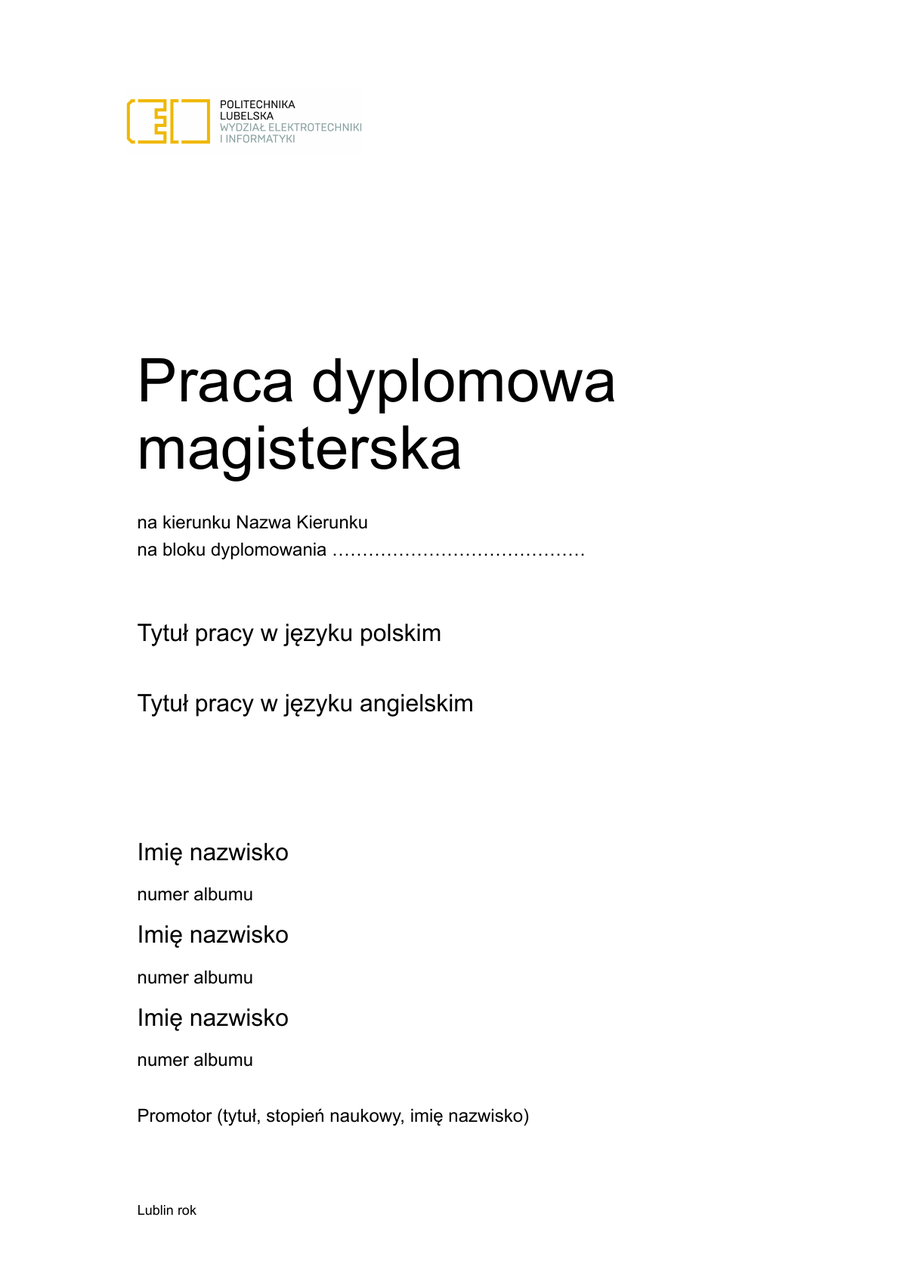
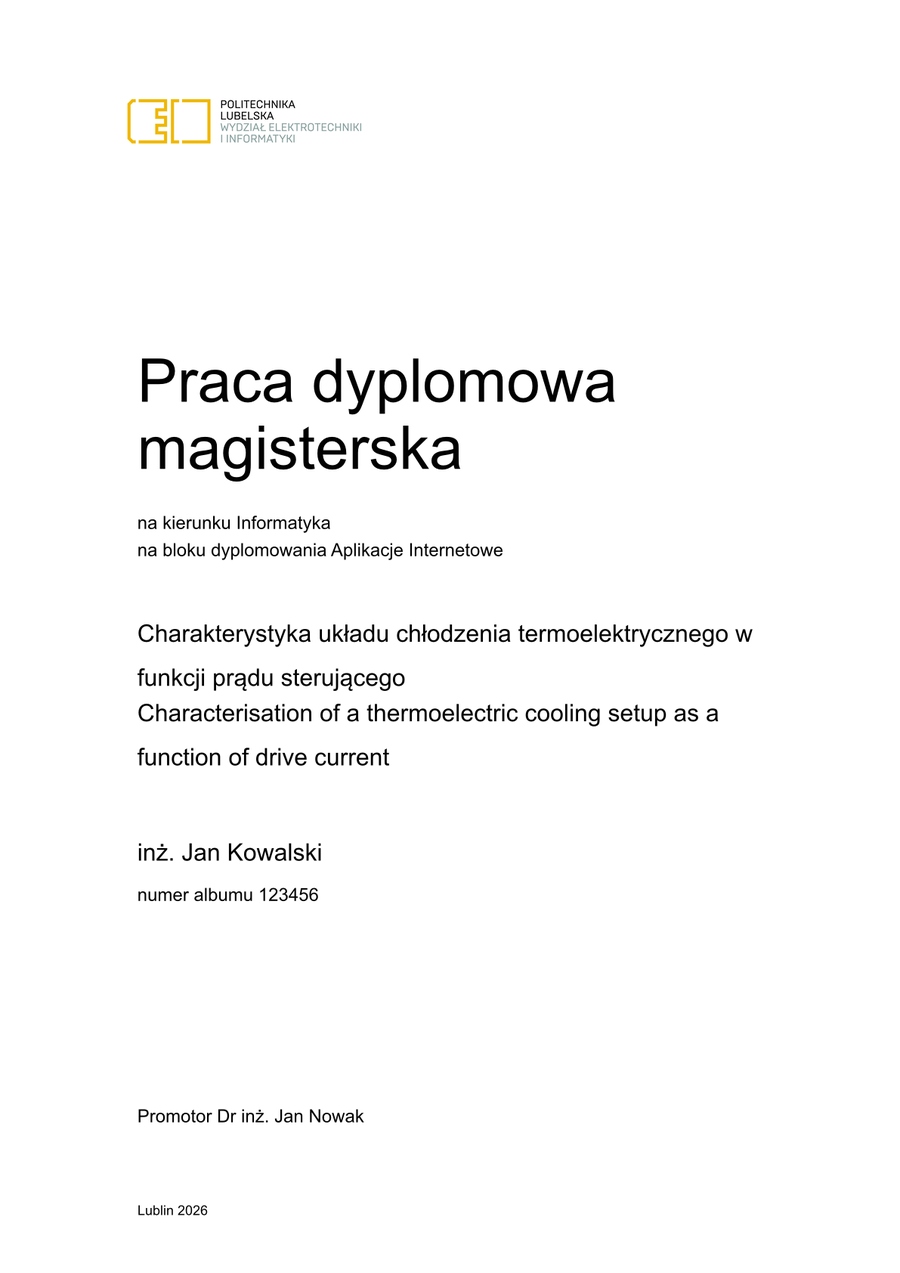
polish handling simplified; refactor

diff --git a/README.md b/README.md
@@ -8,9 +8,10 @@ The package provides:
 - a WEII master title page with the bundled faculty header image
 - bilingual front matter with `Streszczenie` and `Abstract`
 - chapter-based numbering for figures, tables, listings, and equations
-- Polish-first defaults for headings, captions, and table of contents
+- language-aware defaults for headings, captions, and table of contents
+- Polish typography helpers that stay scoped to Polish content
 - a single APA 7 bibliography with numeric bracket citations
-- an optional `Alfabetyczny wykaz oznaczeń` front-matter block
+- an optional localized symbols-list front-matter block
 - a starter project compatible with `typst init`
 
 ## Requirements
@@ -34,6 +35,7 @@ Minimal example:
 #import "@preview/pollub-thesis:0.1.0": thesis, listing
 
 #show: thesis.with(
+  main-lang: "pl",
   title-pl: [Polski tytuł pracy],
   title-en: [English thesis title],
   authors: (
@@ -63,11 +65,15 @@ Tekst z odwołaniem do literatury @riffat-ma-2003.
 #bibliography("references.bib", style: "apa", title: [Bibliografia])
 ```
 
+Set `main-lang: "en"` if the thesis body is in English. In that case, also switch the bibliography title to `[Bibliography]`.
+
 ## Notes
 
 - Pass `authors` as a sequence of 1 to 3 records, each with `name` and `album-number`.
+- `main-lang` controls the body language and the automatic labels used for figures, tables, listings, the table of contents, and the optional symbols list. The default is `"pl"`.
+- Polish single-letter word protection is enabled automatically when `main-lang: "pl"` and is still applied in the Polish abstract and official Polish title-page sections even when `main-lang: "en"`.
 - The title page uses the bundled WEII header image by default. Override it with `title-header-image` if you want to supply another asset.
-- The optional `symbols-list` parameter inserts an unnumbered `Alfabetyczny wykaz oznaczeń` section between the table of contents and chapter 1.
+- The optional `symbols-list` parameter inserts an unnumbered symbols-list section between the table of contents and chapter 1. Its title follows `main-lang` unless you override `symbols-list-title`.
 - The template intentionally does not generate separate lists of tables, figures, or formulas, because the WEII guidelines forbid them.
 
 ## Getting started
